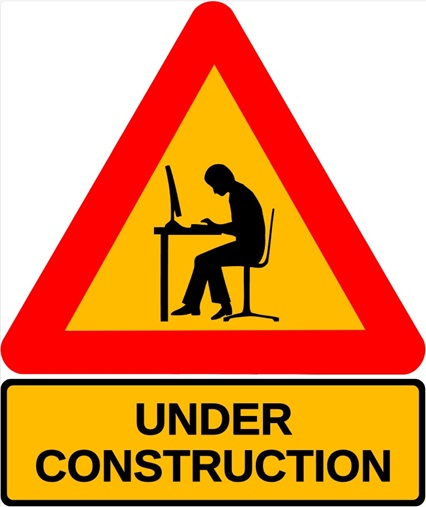
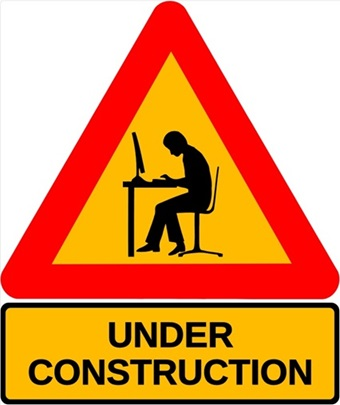
tab open pptx files

diff --git a/index.html b/index.html
@@ -97,7 +97,7 @@
             <div class="textbox" readonly>
                 <h2><span style="color: #3366ff;">Welcome to the Tawa Scottish Country Dancing Website</span></h2>
 
-<a href="ppt/Introduction/pptx.html"><big>An Introduction to Scottish Country Dancing at Tawa</big></a>
+<a href="ppt/Introduction/pptx.html" target="_blank"><big>An Introduction to Scottish Country Dancing at Tawa</big></a>
 </br>
 </br>
 <a href="https://rscds.org/learn/steps-techniques/quick-start-guide"><big>Quick Start Guide</big></a><br>

diff --git a/photos.html b/photos.html
@@ -99,10 +99,10 @@
 
 <li>Albums are generated from PowerPoint presentations.
 <li>Navigate using left/right arrow keys or by clicking on either side of the image.
-<li>Press the Esc key (or down-swipe on a mobile) to exit the deck.
+<li>Close browser tab to exit the deck.
 <br>
 <br>
-<a href="ppt/Photos/pptx.html"><big>Example album</big></a>
+<a href="ppt/Photos/pptx.html" target="_blank"><big>Example album</big></a>
 
 
             </div>

diff --git a/events.html b/events.html
@@ -98,7 +98,7 @@
                 <h2><span style="color: #3366ff;"><b>Events Calendar</b></span></h2>
 <br>
 <div style="display: flex; align-items: center; justify-content: center;">
-<div style="max-width:50%;">
+<div style="max-width:30%;">
 <img src="jpg/UnderConstruction.jpg" alt="Under Construction">
 </div>
 </div>
